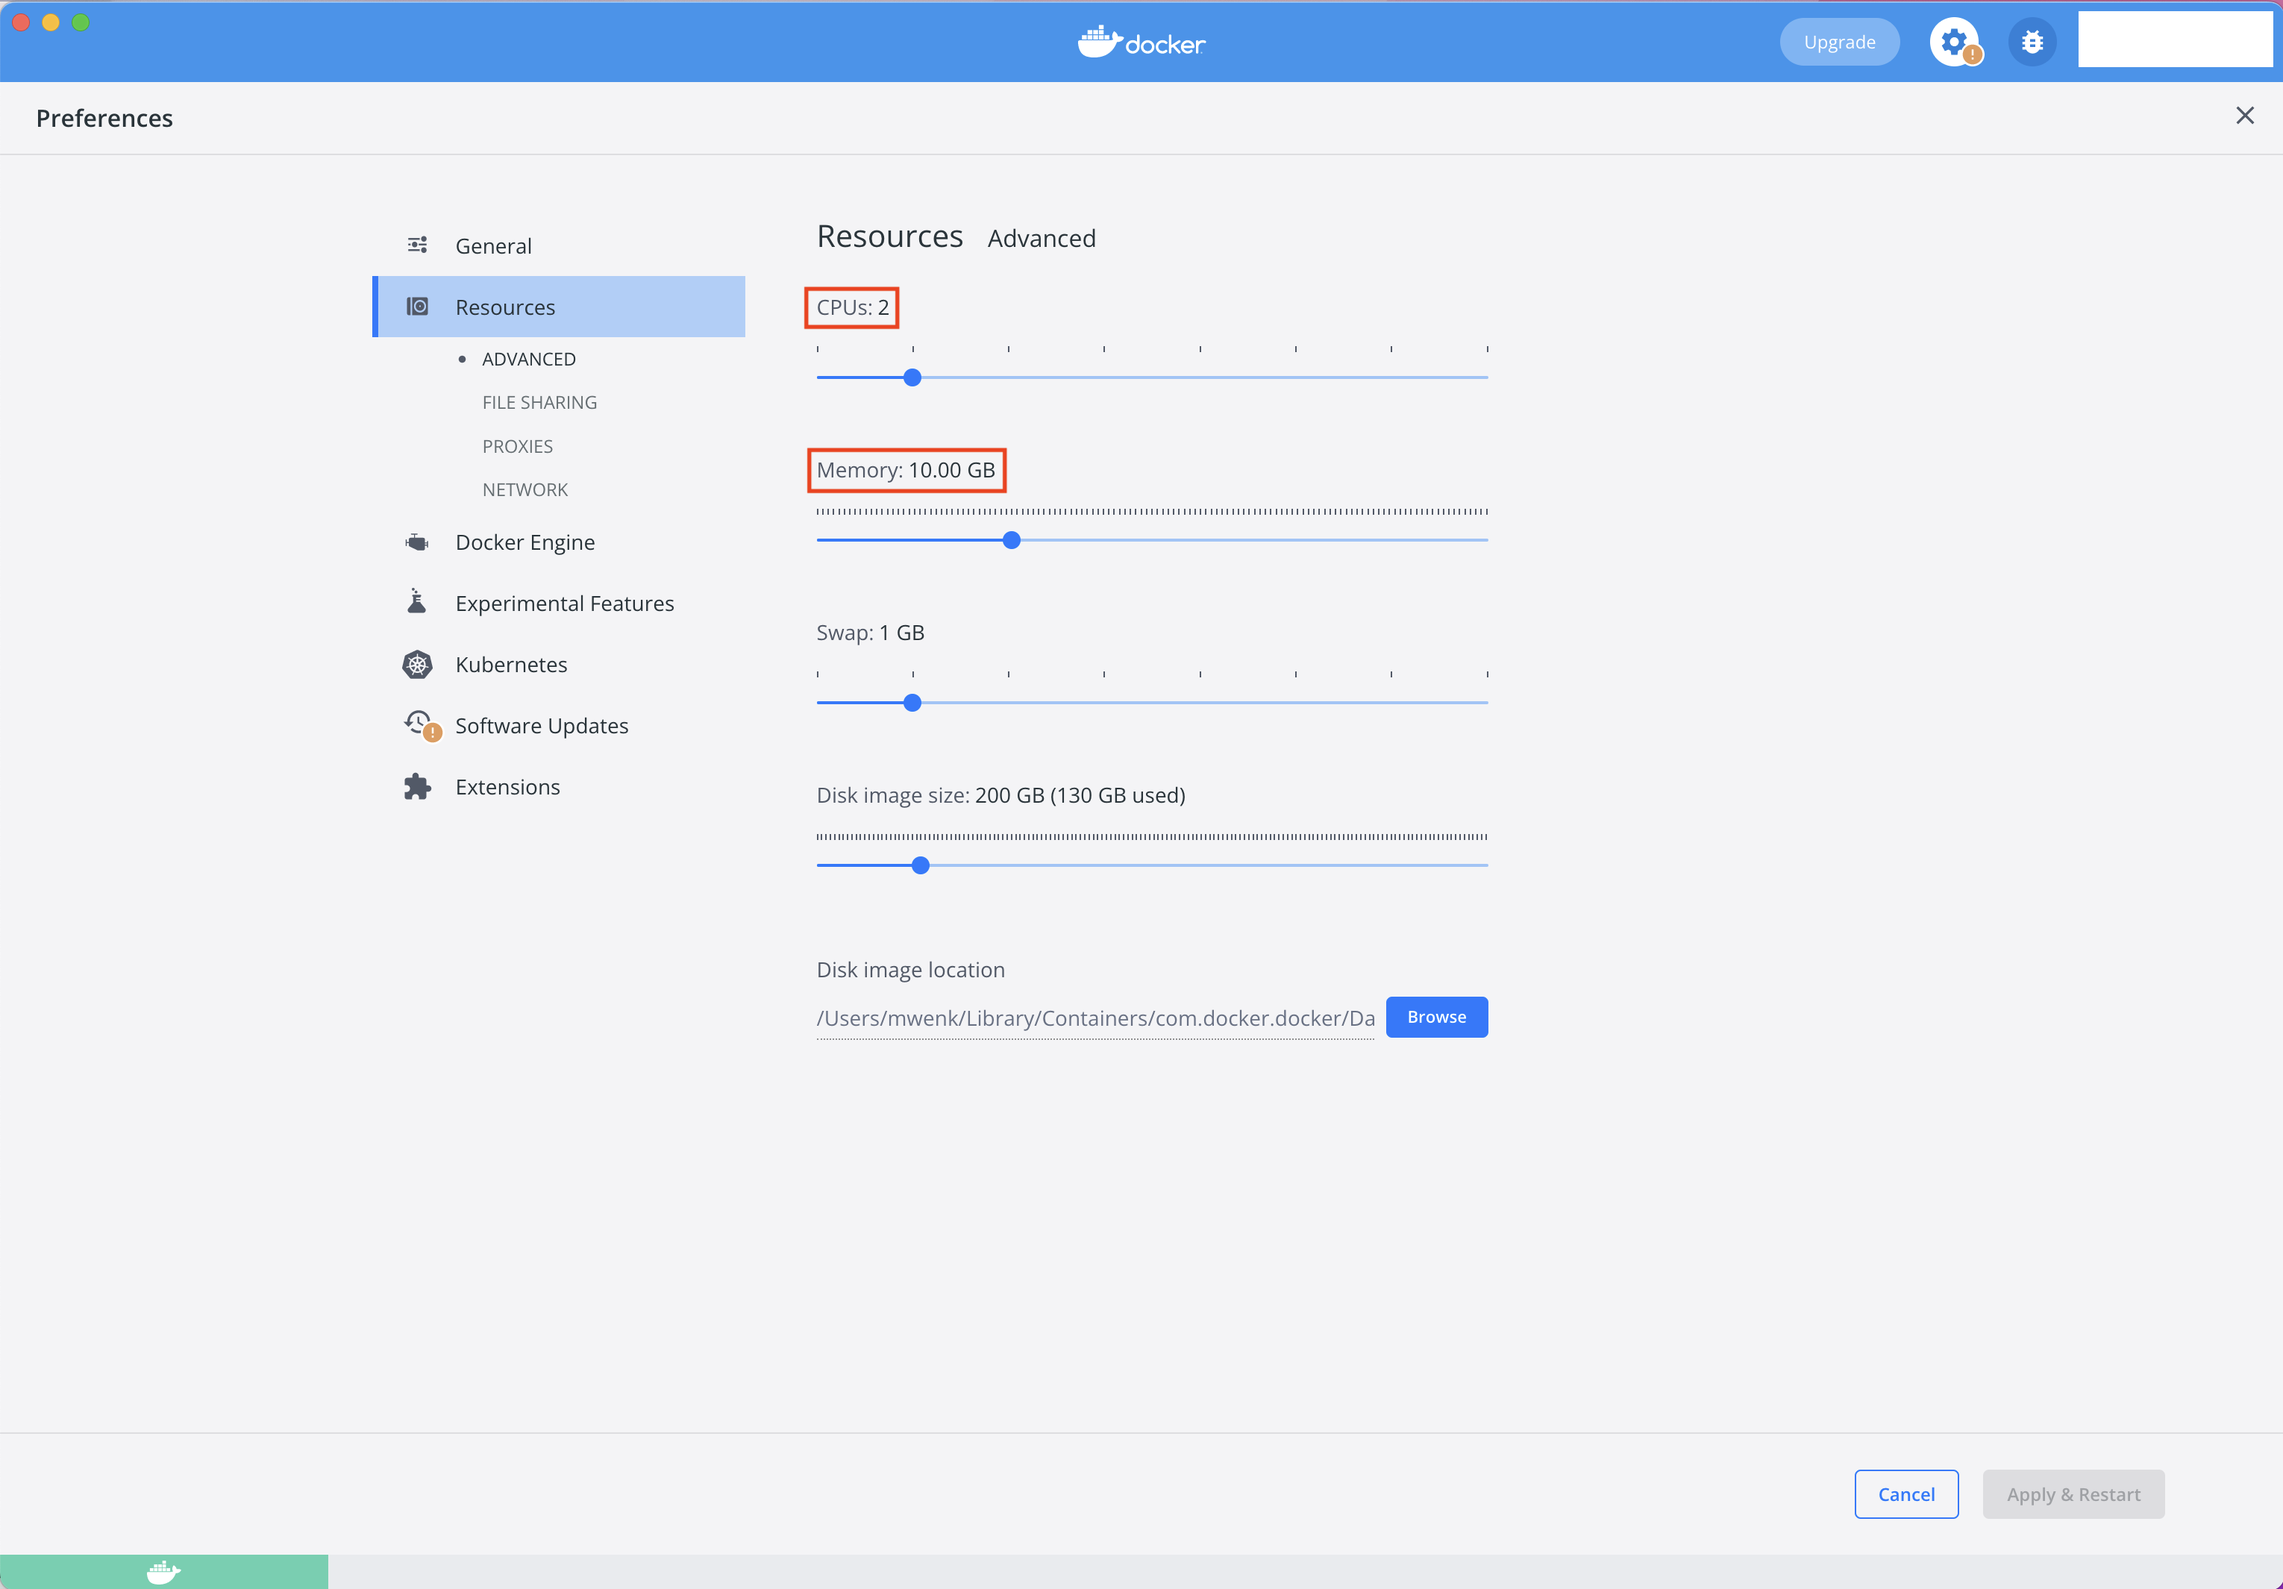
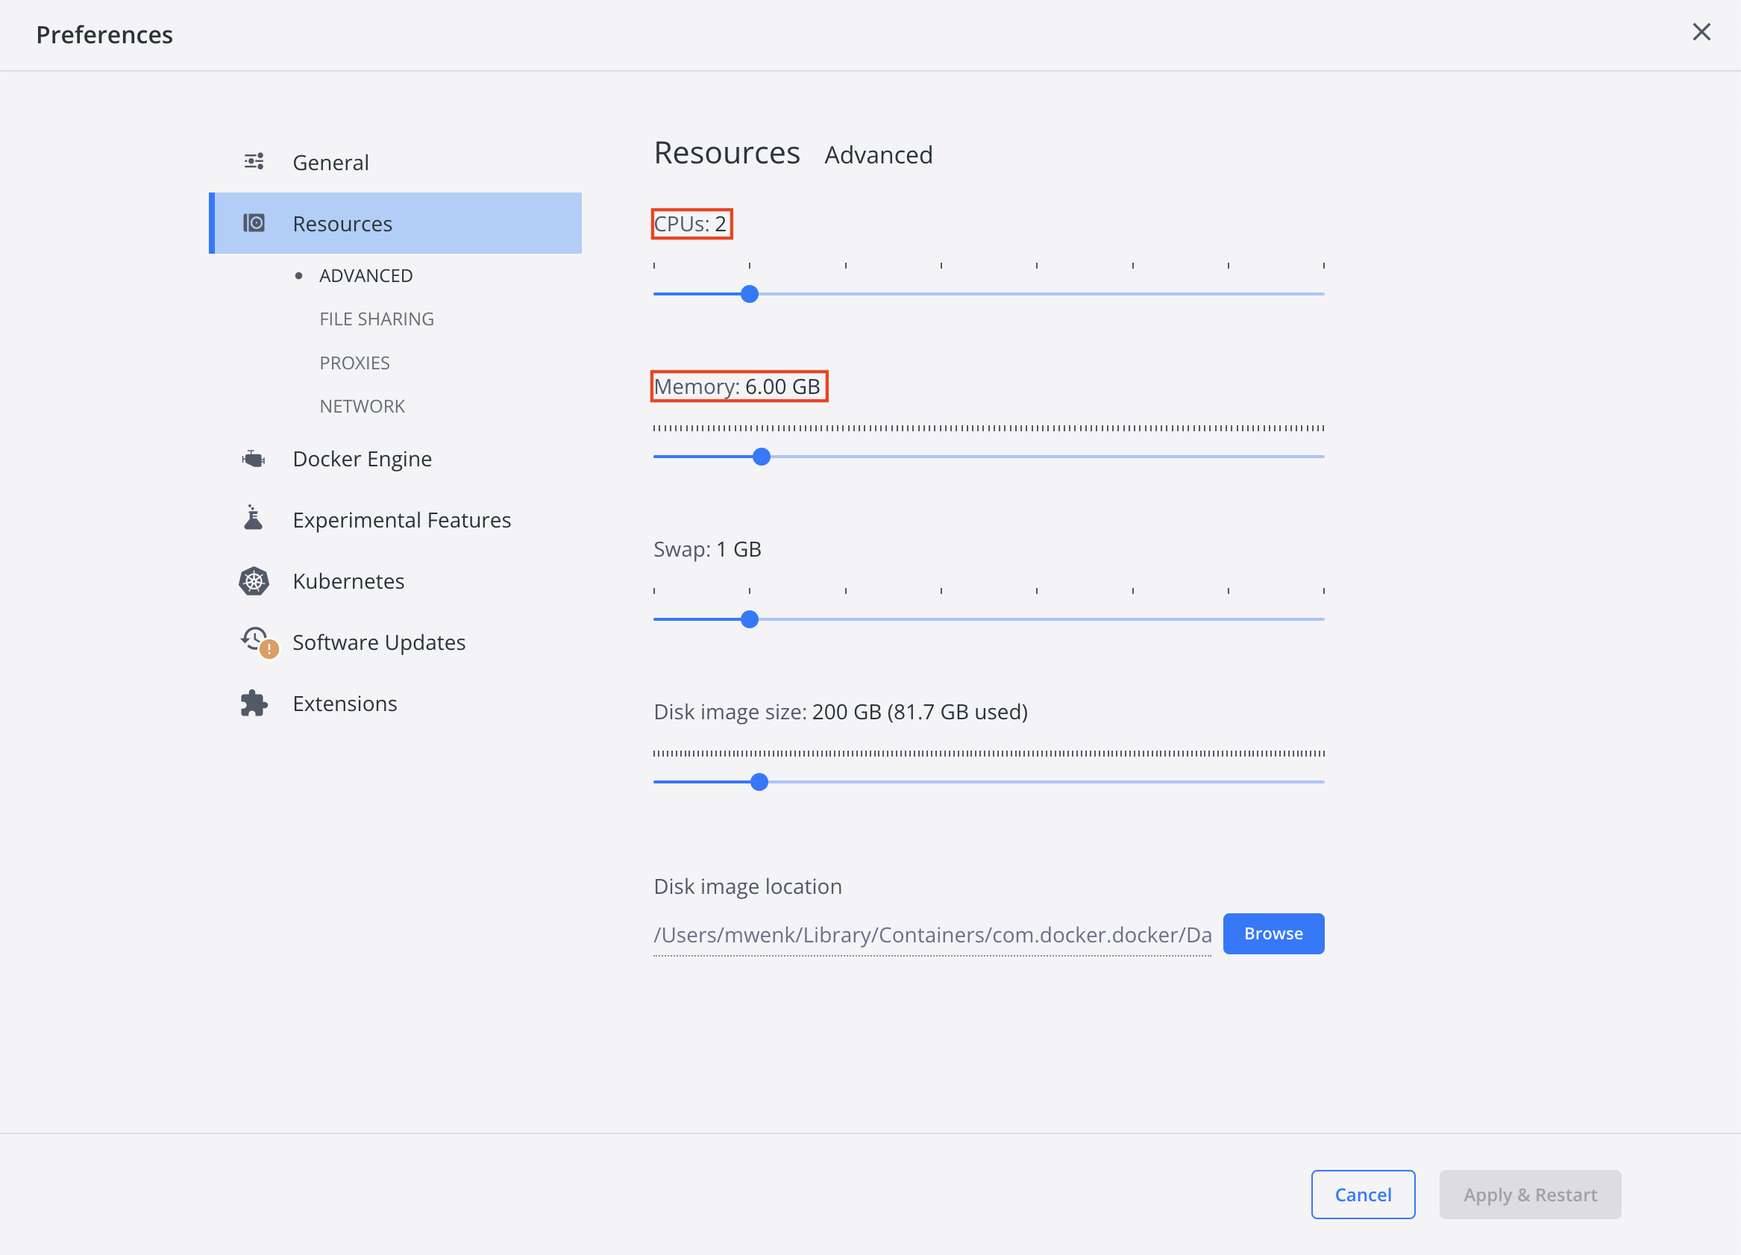
chore: reduced needed RAM (6GB)

diff --git a/README.md b/README.md
@@ -22,7 +22,7 @@ See [Dependencies](#dependencies) section.
 ## Docker and Execution of pre-built Containers
 This project uses Docker containers (https://www.docker.com) and starts them via docker-compose. Make sure that docker-compose is installed.
 
-NOTE: It is recommended to set the accessible RAM to 10 GB or higher and the number of available CPU cores to two. This can be done easily in the Docker Desktop application, see [here](/public/Docker_settings.png).
+NOTE: It is recommended to set the accessible RAM to 6 GB or higher and the number of available CPU cores to two. This can be done easily in the Docker Desktop application, see [here](/public/Docker_settings.png).
 
 
 ### Download
